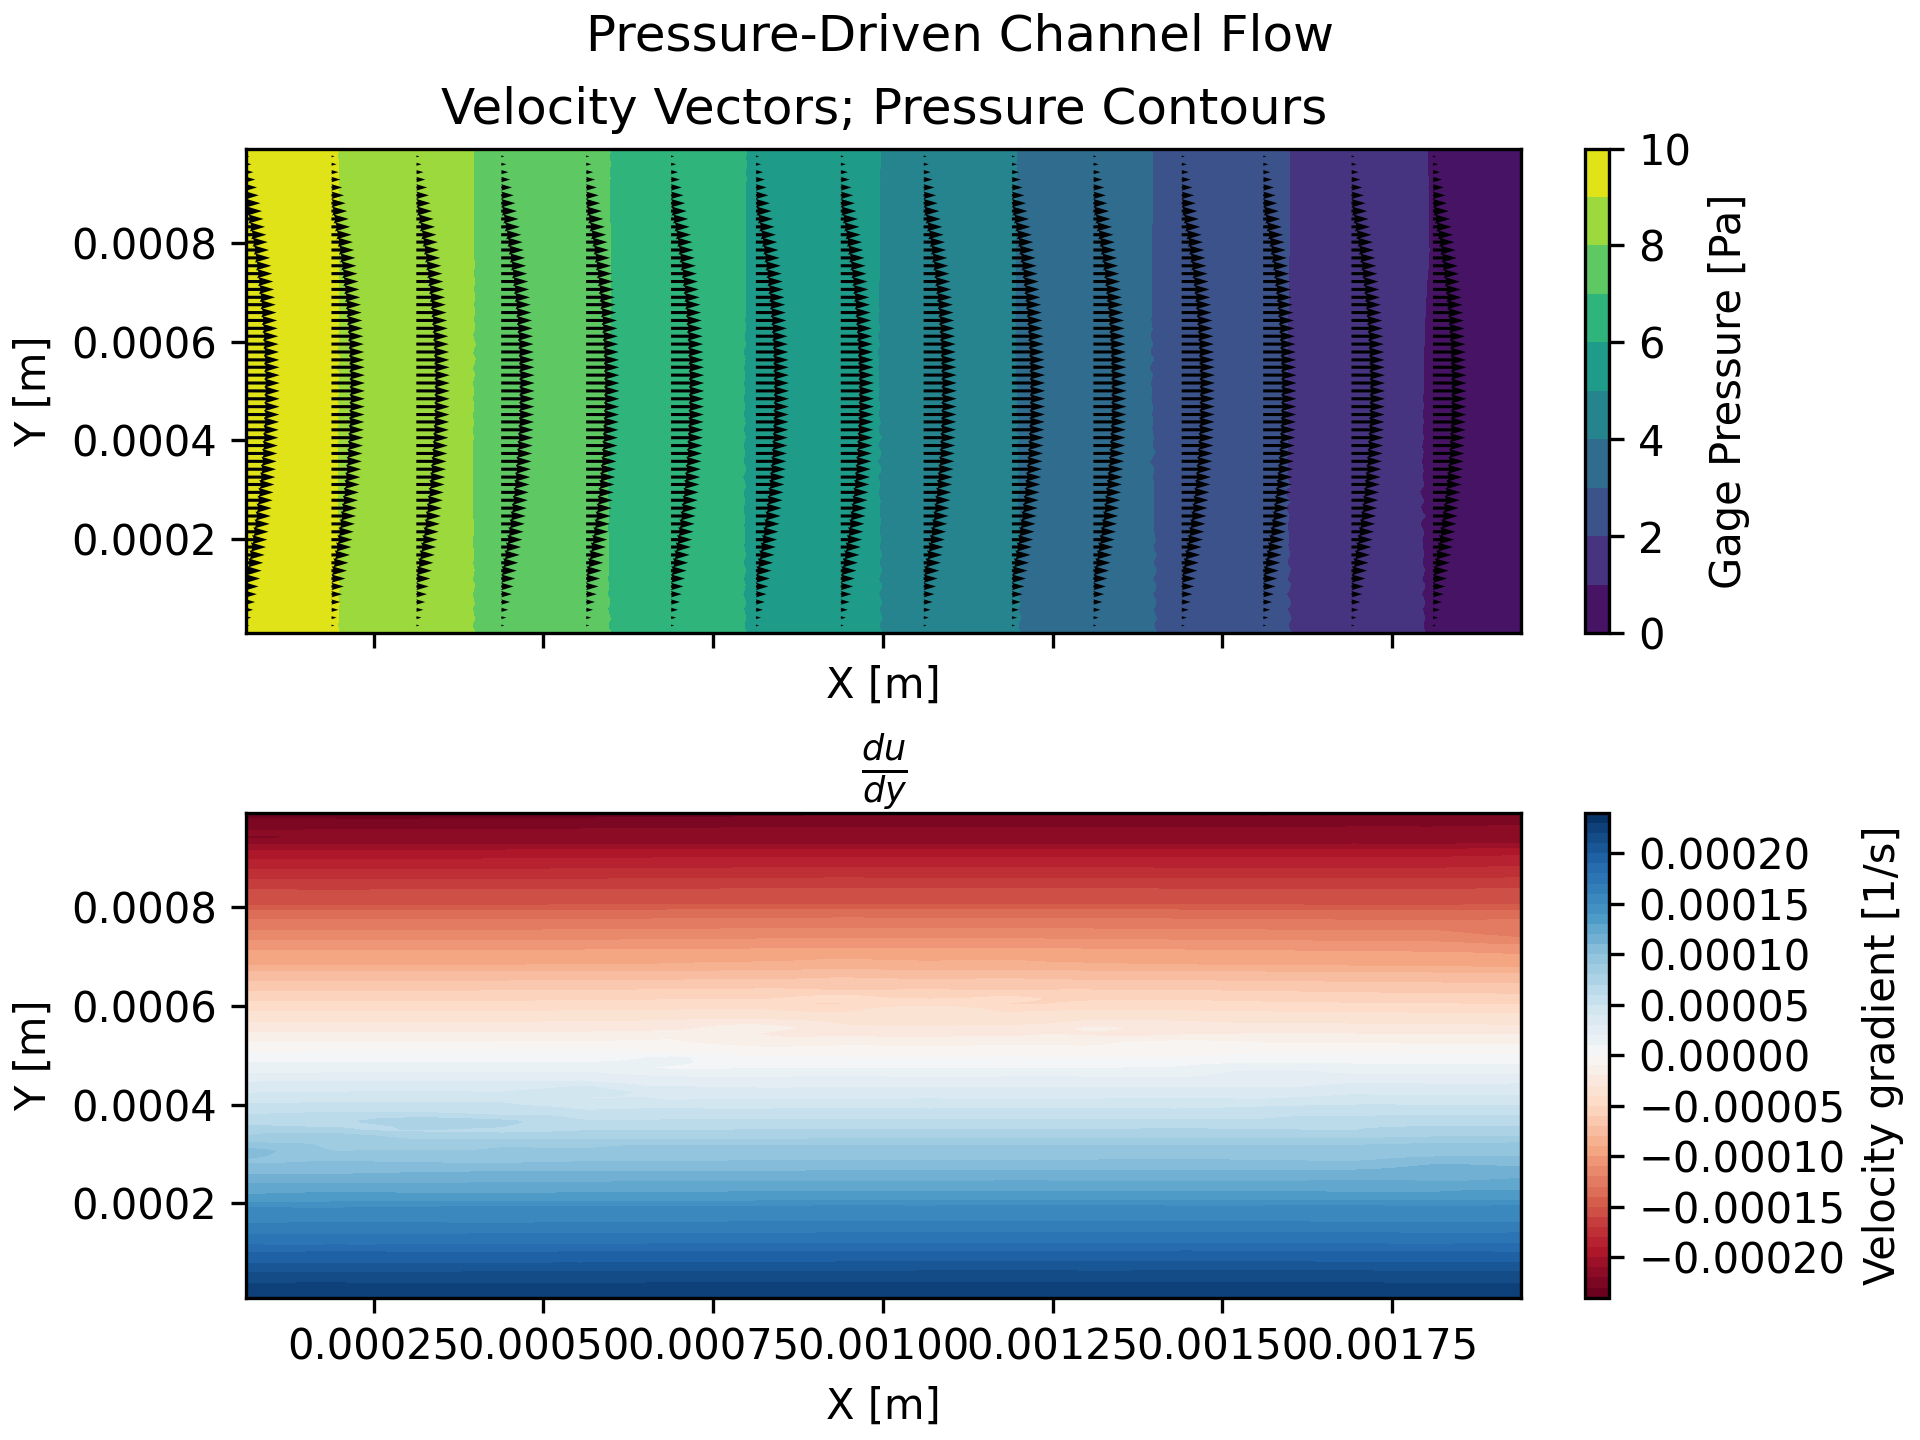
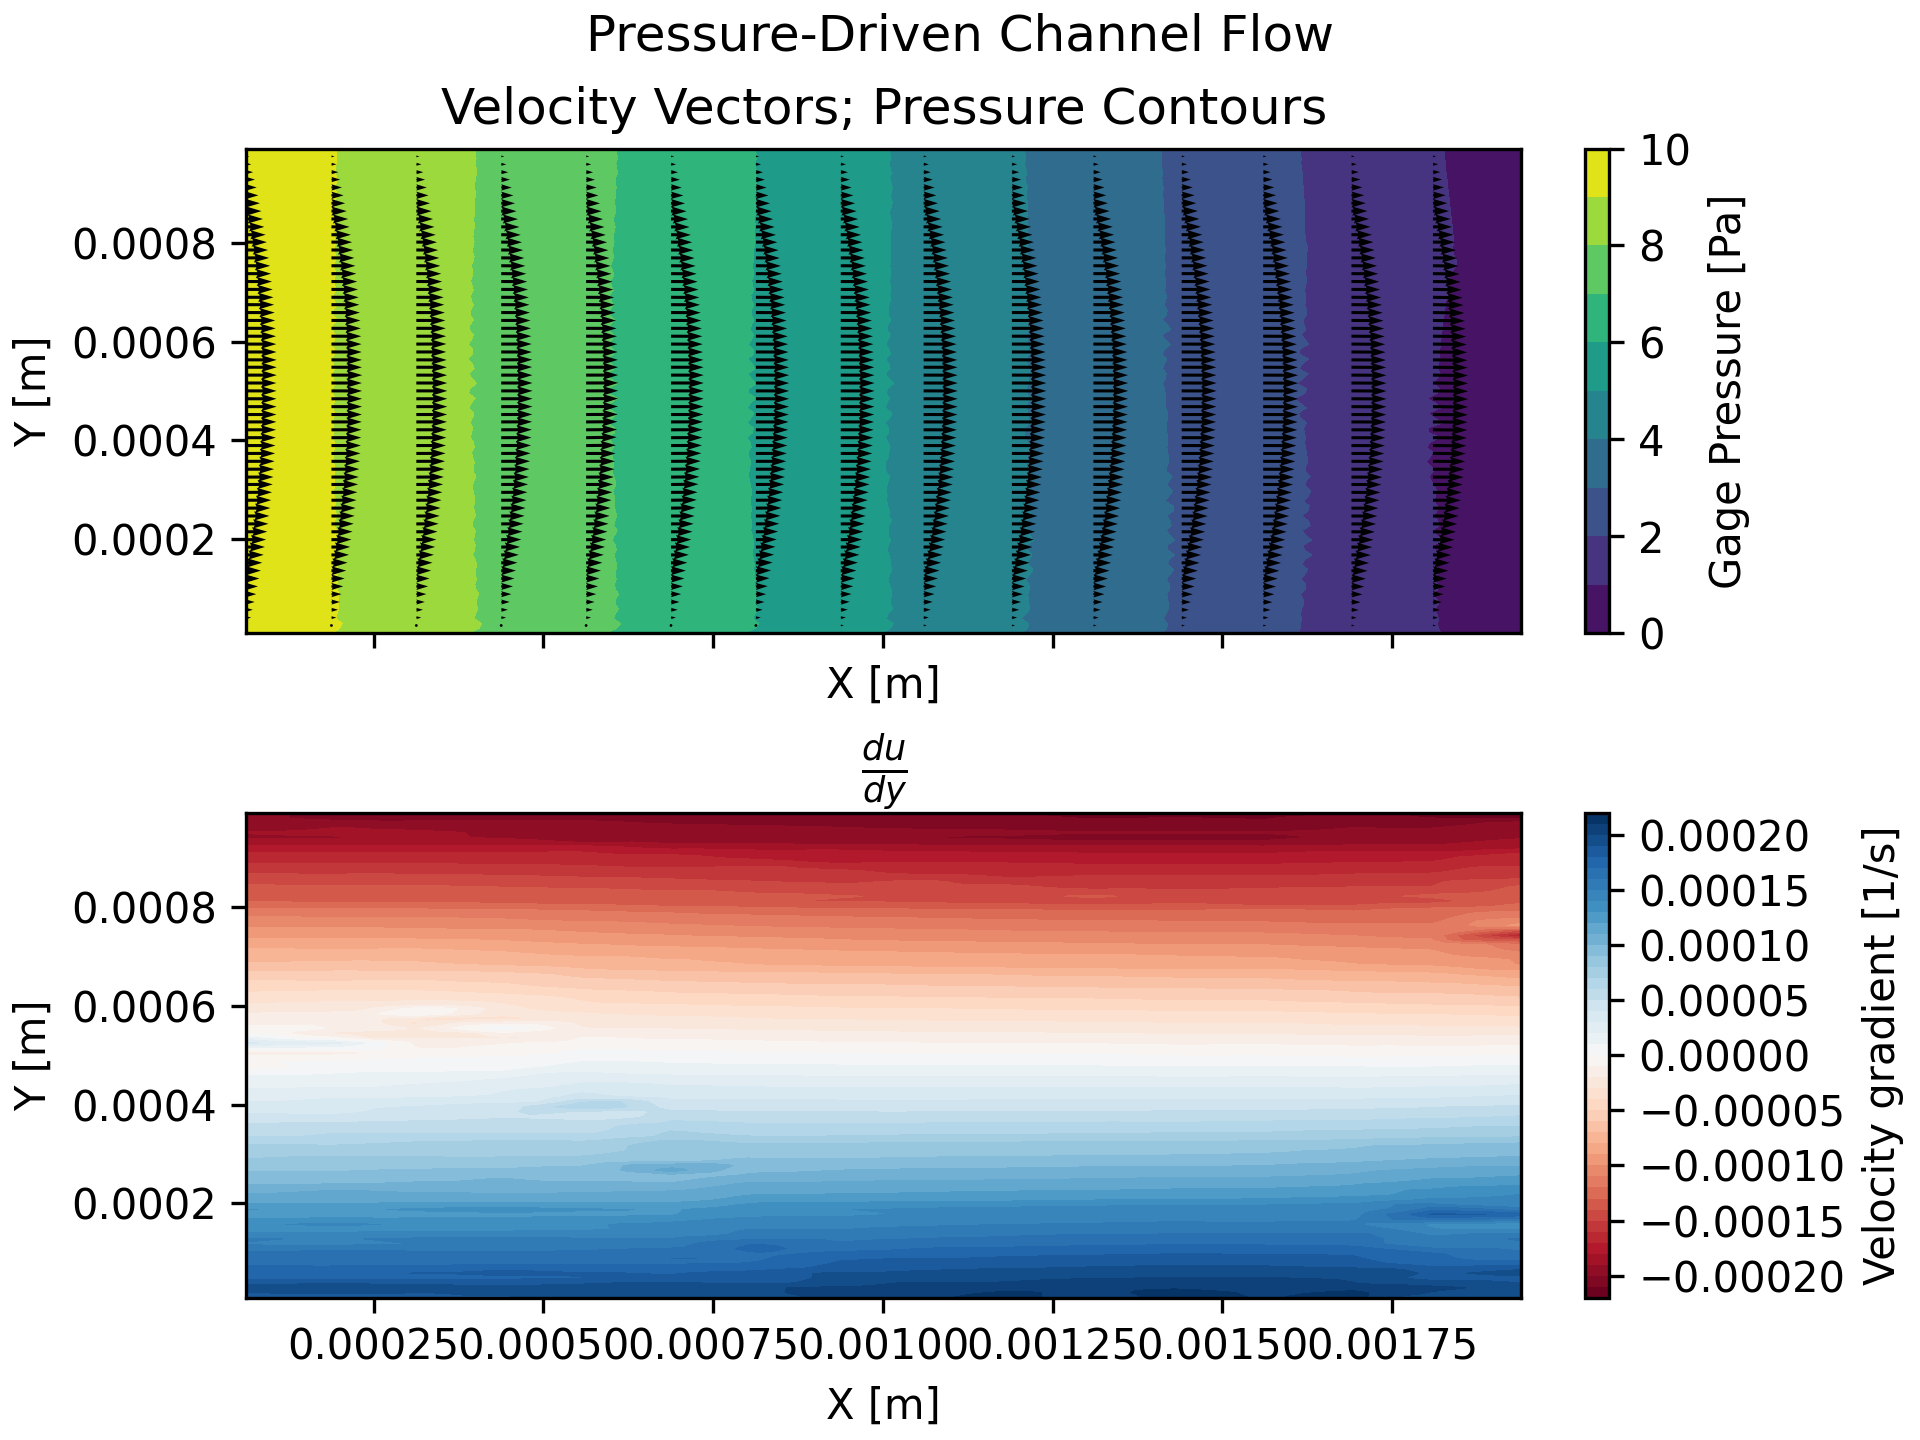
zero pressure correction initial guess, tweak channel flow numerics

diff --git a/src/main.rs b/src/main.rs
@@ -128,10 +128,10 @@ fn channel_flow(iteration_count: Uint, reporting_interval: Uint) {
     // ************* Set numerical methods ***************
     let settings = NumericalSettings {
         momentum_relaxation: 0.01,
-        pressure_relaxation: 0.01, // 0.25 converges, 0.5 diverges
+        pressure_relaxation: 0.01,
         matrix_solver: SolutionMethod::Multigrid,
-        matrix_solver_iterations: 20,
-        matrix_solver_relaxation: 0.5,
+        matrix_solver_iterations: 100,
+        matrix_solver_relaxation: 0.5, // 0.5 seems like roughly upper limit
         matrix_solver_convergence_threshold: 1e-3,
         momentum: MomentumDiscretization::CD1,
         pressure_interpolation: PressureInterpolation::SecondOrder,
@@ -146,11 +146,7 @@ fn channel_flow(iteration_count: Uint, reporting_interval: Uint) {
         rho,
         mu,
         iteration_count,
-        if reporting_interval == 0 {
-            Uint::max(iteration_count / 1000, 1)
-        } else {
-            reporting_interval
-        },
+        Uint::max(reporting_interval,1)
     );
     // Initially guessed pressure field is exactly correct, so
     // this should be able to converge in 1 iteration. With 100k

diff --git a/src/solver.rs b/src/solver.rs
@@ -268,12 +268,8 @@ pub fn solve_steady(
                     );
                 }
 
-                // I think what's happening here is that, if Pe < 1 in all cells, a_nb will all
-                // have the same sign in each row of the pressure correction system. This means
-                // that sum(abs(a_nb)) == a_p for each row, whereas the boundedness criterion
-                // requires that sum(abs(a_nb)) < a_p for at least one row.
-                // What's the solution? Skip pressure correction if max Pe < 1?
-                // Reducing the iteration count (10k -> 10) seems to have fixed the issue for now.
+                // Zero the pressure correction for a reasonable initial guess
+                p_prime = p_prime * 0.;
                 iterative_solve(
                     &pressure_correction_matrices.a,
                     &pressure_correction_matrices.b,
